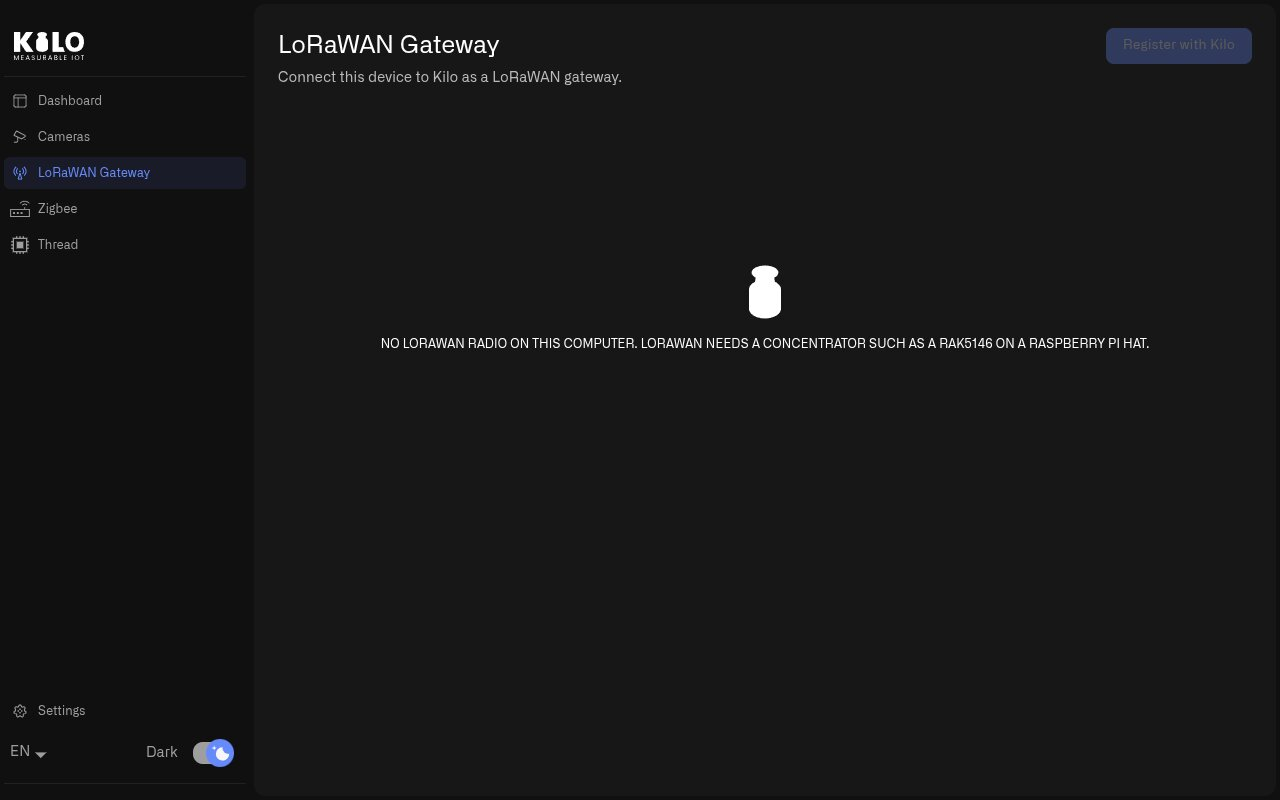
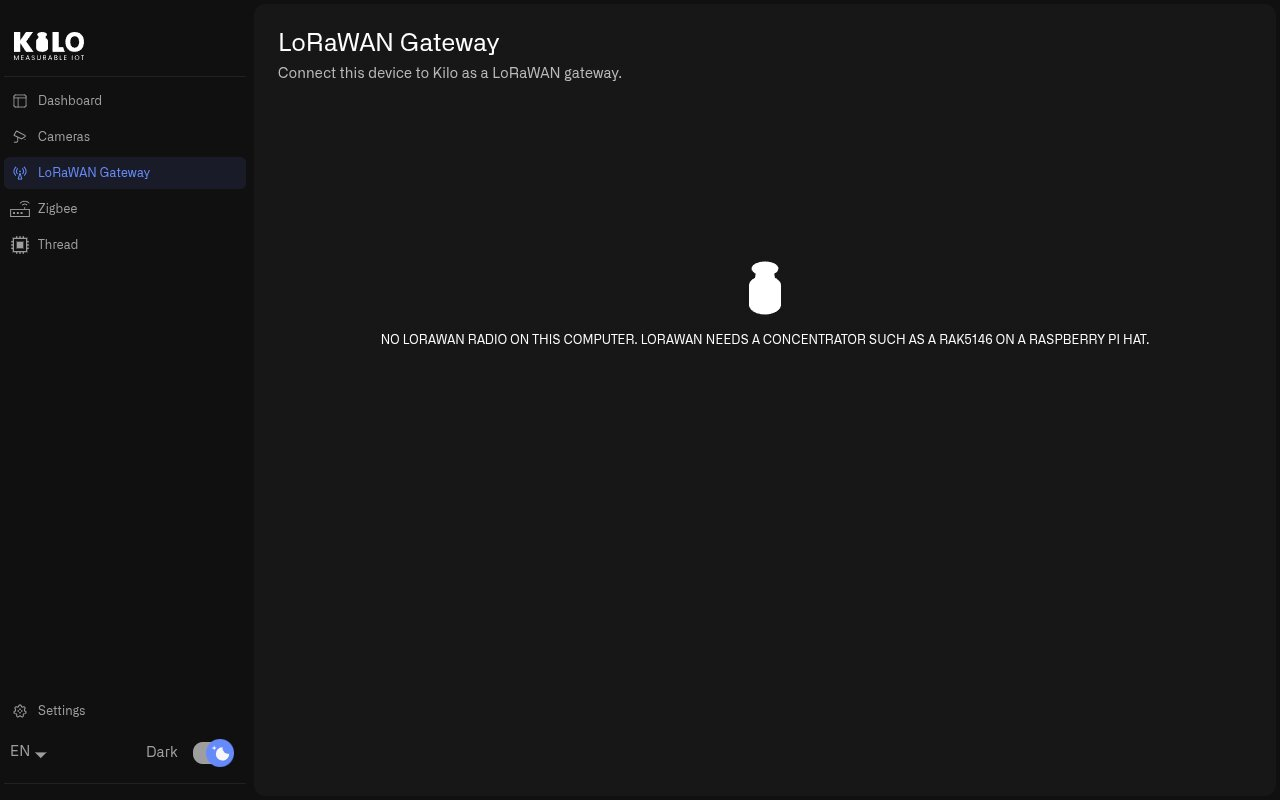
Kilo Hub: document the Raspberry Pi gateway flow that ships in 0.1.1
The LoRaWAN gateway page now follows the app: copy the gateway ID, register a
3rd Party Gateway in Kilo, download certs.zip, add the three files and the LNS
address in Kilo Hub. The Raspberry Pi page prepares the Pi with the setup
script on Ubuntu, and the Zigbee page describes choosing the Zigbee dongle when
more than one radio is plugged in. Both LoRaWAN screenshots are new.

diff --git a/kilo-iot-server/kilo-hub/raspberry-pi/lorawan-gateway.md b/kilo-iot-server/kilo-hub/raspberry-pi/lorawan-gateway.md
@@ -1,49 +1,55 @@
 ---
-description: Turn a Raspberry Pi with a RAK5146 concentrator into a LoRaWAN gateway on Kilo IoT, registered from Kilo Hub.
+description: Turn a Raspberry Pi with a RAK5146 concentrator into a LoRaWAN gateway on Kilo IoT, set up from Kilo Hub.
 ---
 
 # How Do I Build a Raspberry Pi LoRaWAN Gateway?
 
-A Raspberry Pi with a LoRaWAN concentrator card on a Pi HAT is a full LoRaWAN gateway. Kilo Hub reads the gateway's identity from the card, registers the gateway with Kilo, installs its security certificates and starts it, so the Pi joins Kilo's built-in LoRaWAN Network Server without anyone typing an EUI or a server address.
+A Raspberry Pi with a LoRaWAN concentrator card on a Pi HAT is a full LoRaWAN gateway. Kilo Hub reads the gateway ID from the card, sends you to Kilo to register it, and installs the certificates Kilo gives you, so the Pi joins Kilo's built-in LoRaWAN Network Server without anyone editing configuration files.
 
 ## Why build the gateway on the hub instead of buying one?
 
-A site that already needs a box for cameras or Zigbee gets LoRaWAN coverage from the same device for the cost of a concentrator card and an antenna. There is one device to power, mount, network and update instead of two, and the gateway's status sits on the same Dashboard as everything else at the site.
+A site that already needs a box for cameras or Zigbee gets LoRaWAN coverage from the same device for the cost of a concentrator card and an antenna. There is one device to power, mount, network and update instead of two.
 
 The gateway connects to Kilo over an encrypted **Basics Station** connection, the same secure protocol Kilo requires from every LoRaWAN gateway. See [LoRaWAN Gateways](../../gateways/lorawan-gateways/README.md) for how Kilo handles gateways in general.
 
 ## What do I need before I start?
 
-* A Raspberry Pi assembled as described in [Raspberry Pi](README.md#how-do-i-assemble-the-raspberry-pi-hub): Pi HAT with an mPCIe slot, RAK5146 concentrator card and a LoRa antenna for your region.
-* Kilo Hub installed on the Pi ([Download and Install](../download-and-install.md)).
+* A Raspberry Pi set up as described in [Raspberry Pi](README.md): assembled with the RAK5146 card and a LoRa antenna, prepared with the setup script, and running Kilo Hub.
+* A Kilo account with access to **Gateways**.
 * The LoRaWAN region of the installation site, for example **EU868** in Europe or **US915** in North America.
 * An internet connection on the Pi.
 
-## How do I register the Raspberry Pi as a gateway?
+## How do I set up the Raspberry Pi as a gateway?
 
-1. Open **Kilo Hub** and select **LoRaWAN Gateway** in the left menu.
-2. Kilo Hub checks the concentrator card. When the card answers, the **Gateway** table shows its **Gateway EUI** (read from the chip), the **Radio** model and the **Connection** (SPI). You never type the EUI.
-3. Check the **Gateway name**. It is filled in for you; change it to something your team recognizes, such as the site and building.
-4. Check the **Region**. Kilo Hub picks it from the computer's language and country settings; select the band used at the installation site from the list (EU868, US915, AU915, AS923, AS923-2, EU433, IN865, KR920, RU864, CN470, CN779, ISM2400).
-5. Select **Register with Kilo**. Kilo Hub works through four steps and shows each one:
-   * **Creating your gateway in Kilo…**
-   * **Downloading security certificates…**
-   * **Installing certificates…**
-   * **Starting the gateway…**
-6. When the screen shows **Your gateway is connected to Kilo.**, the gateway is online. It appears in Kilo under **Gateways** with the same name and EUI.
+1. Open **Kilo Hub** on the Pi and select **LoRaWAN Gateway** in the left menu. The page shows the **Gateway ID**, read from the concentrator chip, and the radio it found. Kilo calls this ID the Gateway EUI.
+2. Select **Copy** next to the Gateway ID, then **Open Kilo**. Kilo opens in the browser.
+3. In Kilo, open **Gateways**, select **Add gateway**, then **3rd Party Gateway**.
+4. Enter a name, choose the region the gateway is installed in, and paste the Gateway ID into **Gateway EUI**. Select **Next**.
+5. Copy the **LNS Address** and download **certs.zip**. Unzip it: it holds the trust certificate (`tc.trust`), the gateway certificate (`tc.crt`) and the private key (`tc.key`).
+6. Back in Kilo Hub, under **Add the files Kilo gave you**, select **Choose file** for **Trust certificate**, **Gateway certificate** and **Private key**, and paste the address into **LNS address**.
+7. Select **Save** and approve the password prompt. Kilo Hub checks that the three files belong together before it changes anything, installs them and starts the gateway.
+8. The page shows **This gateway is set up and running.** Select **Open Kilo** to watch the gateway come online under **Gateways**.
 
-If a step fails, Kilo Hub stops there and shows the reason, with the technical details underneath for support. Nothing is half-installed: the gateway only starts once all of its certificates are in place.
+<figure><img src="../../../.gitbook/assets/kilo-hub-lorawan-gateway-id.jpg" alt="Kilo Hub LoRaWAN Gateway page with the Gateway ID, the registration steps for Kilo and the fields for the certificate files"><figcaption><p>The Gateway ID, the steps to follow in Kilo and the fields for the files Kilo issues.</p></figcaption></figure>
 
-## Why is Register with Kilo disabled?
+Kilo Hub refuses files that do not belong together, such as certificates from two different downloads or a password-protected key, and says which file to choose again. If installing fails partway, it puts the previous files back, so the gateway is never left with a mixed set.
 
-On a computer, or on a Raspberry Pi without the card, the page explains what is missing and **Register with Kilo** stays disabled.
+## How do I know the gateway is connected?
+
+Kilo Hub reports what it can see on the Pi: whether the files are in place and the gateway software is running. Whether the gateway has connected is Kilo's to say. Open the gateway under **Gateways** in Kilo to see its status and traffic; see [LoRaWAN Gateway Monitoring](../../gateways/lorawan-gateways/lorawan-gateway-monitoring.md).
+
+When the gateway software has stopped, the page shows **This gateway is set up but not running.** with a **Start gateway** button.
+
+## Why does the page say there is no LoRaWAN radio?
+
+The LoRaWAN Gateway page needs the concentrator card and the Pi setup script. On a computer, or on a Raspberry Pi that was not prepared with the script, the page names the hardware it needs instead.
 
 <figure><img src="../../../.gitbook/assets/kilo-hub-lorawan-no-radio.jpg" alt="Kilo Hub LoRaWAN Gateway page saying a concentrator such as a RAK5146 on a Raspberry Pi HAT is needed"><figcaption><p>Without a concentrator card, the LoRaWAN Gateway page names the hardware it needs.</p></figcaption></figure>
 
-If the card is fitted but not found, power the Pi off, reseat the card in the HAT and the HAT on the GPIO header, and start again.
+If the card is fitted but not found, power the Pi off, reseat the card in the HAT and the HAT on the GPIO header, and run the setup script again: it checks that the card answers.
 
 ## Tips
 
 * Mount the antenna as high as practical and outside metal cabinets. Range depends far more on antenna placement than on the gateway itself.
-* Once the gateway is online, monitor it from Kilo: [LoRaWAN Gateway Monitoring](../../gateways/lorawan-gateways/lorawan-gateway-monitoring.md).
+* Keep `certs.zip` private. It identifies the gateway; if it leaks, regenerate the certificates in Kilo and add the new files in Kilo Hub.
 * Add your LoRaWAN sensors in Kilo as usual: [LoRaWAN Devices](../../devices/lorawan-devices.md). The Pi forwards their uplinks like any other gateway.

diff --git a/kilo-iot-server/kilo-hub/raspberry-pi/README.md b/kilo-iot-server/kilo-hub/raspberry-pi/README.md
@@ -17,7 +17,7 @@ A typical small site — a retail store, a branch office, a plant room — ends 
 | Single-board computer | Raspberry Pi 4 (4 GB or 8 GB) or Raspberry Pi 5 | Everything |
 | Storage | microSD card, 32 GB or larger | Everything |
 | Power | 5 V / 3 A USB-C power supply | Everything |
-| Operating system | Raspberry Pi OS (64-bit) | Everything |
+| Operating system | Ubuntu 24.04 or 26.04 (64-bit) | Everything |
 | Pi HAT with an mPCIe slot | A RAK Pi HAT for mPCIe concentrators | LoRaWAN gateway |
 | LoRaWAN concentrator | RAK5146 mPCIe card (Semtech SX1303) | LoRaWAN gateway |
 | Antennas | LoRa antenna for your region's band; GPS antenna optional | LoRaWAN gateway |
@@ -33,11 +33,29 @@ Zigbee and Thread need one radio each: a single dongle runs either Zigbee firmwa
 3. Connect the LoRa antenna to the concentrator's antenna connector **before** powering on. Transmitting without an antenna can damage the radio.
 4. Optionally connect the GPS antenna, for accurate gateway time and location.
 5. Plug the Zigbee dongle (and the Thread radio, if used) into USB ports. A short USB extension cable moves the radio away from the Pi's own interference.
-6. Write Raspberry Pi OS (64-bit) to the microSD card, start the Pi with a screen, keyboard and mouse, and connect it to the network — wired Ethernet is best for cameras.
+6. Write Ubuntu 24.04 or 26.04 (64-bit) to the microSD card with Raspberry Pi Imager, start the Pi and connect it to the network — wired Ethernet is best for cameras.
+
+## How do I prepare the Raspberry Pi for Kilo Hub?
+
+One script prepares the Pi: it turns on the interface the concentrator card uses, checks that the card answers, and installs Docker, the gateway software and the Zigbee and Thread radio support. Run it once, from a terminal on the Pi or over SSH:
+
+```sh
+git clone https://github.com/chirpdepin/raspberry-pi-iot-hub.git
+cd raspberry-pi-iot-hub
+sudo ./scripts/install-ubuntu.sh --with-desktop
+```
+
+`--with-desktop` adds the small graphical session Kilo Hub runs in on Ubuntu Server; leave it out on Ubuntu Desktop. If the card does not answer, the script stops and says so: check that the card is seated in the HAT and the HAT on the GPIO header. Reboot when the script asks.
 
 ## How do I install Kilo Hub on the Raspberry Pi?
 
-Download the `arm64` `.deb` package from the [Kilo Hub release page](https://github.com/chirpdepin/raspberry-pi-iot-hub/releases/latest) and install it as described in [Download and Install](../download-and-install.md#how-do-i-install-kilo-hub-on-linux-or-a-raspberry-pi). Start **Kilo Hub** from the applications menu. The Dashboard lists the Pi as the device and shows which capabilities found their hardware.
+Download `kilo-hub_<version>_arm64.deb` from the [Kilo Hub release page](https://github.com/chirpdepin/raspberry-pi-iot-hub/releases/latest) and install it:
+
+```sh
+sudo apt install ./kilo-hub_<version>_arm64.deb
+```
+
+After a reboot with a screen attached, the Pi signs in on its own and Kilo Hub starts. The Dashboard lists the Pi as the device and shows which capabilities found their hardware.
 
 ## What can the Raspberry Pi hub run?
 

diff --git a/kilo-iot-server/kilo-hub/download-and-install.md b/kilo-iot-server/kilo-hub/download-and-install.md
@@ -1,5 +1,5 @@
 ---
-description: Download the Kilo Hub installer for Windows, macOS, Linux or Raspberry Pi OS and get past the first-open prompt.
+description: Download the Kilo Hub installer for Windows, macOS, Linux or a Raspberry Pi and get past the first-open prompt.
 ---
 
 # How Do I Download and Install Kilo Hub?
@@ -20,7 +20,7 @@ Open the release page, scroll to **Assets**, and pick the file for the machine. 
 | Mac with Apple silicon (M1 and later) | `Kilo-Hub-<version>-arm64.dmg` |
 | Mac with an Intel processor | `Kilo-Hub-<version>.dmg` |
 | Ubuntu or Debian computer | `kilo-hub_<version>_amd64.deb` |
-| Raspberry Pi (Raspberry Pi OS 64-bit) | `kilo-hub_<version>_arm64.deb` |
+| Raspberry Pi (Ubuntu 64-bit, prepared as in [Raspberry Pi](raspberry-pi/README.md)) | `kilo-hub_<version>_arm64.deb` |
 | Any other Linux distribution | `Kilo-Hub-<version>.AppImage` (64-bit PC) or `Kilo-Hub-<version>-arm64.AppImage` (ARM) |
 
 Ignore the `.yml` and `.blockmap` files on the page; they are not installers.
@@ -44,13 +44,13 @@ On macOS 13 and later, Kilo Hub sets up its own Docker engine on the Mac (a down
 
 ## How do I install Kilo Hub on Linux or a Raspberry Pi?
 
-On Ubuntu, Debian and Raspberry Pi OS, use the `.deb` package. It installs everything Kilo Hub depends on:
+On Ubuntu and Debian, use the `.deb` package. It installs everything Kilo Hub depends on:
 
 ```sh
 sudo apt install ./kilo-hub_<version>_amd64.deb
 ```
 
-On a Raspberry Pi, use the `arm64` package instead. Then start **Kilo Hub** from the applications menu. The Raspberry Pi needs a screen, keyboard and mouse for this, or a remote desktop session.
+On a Raspberry Pi, run the [setup script](raspberry-pi/README.md#how-do-i-prepare-the-raspberry-pi-for-kilo-hub) first, then install the `arm64` package. Then start **Kilo Hub** from the applications menu.
 
 On other distributions, use the AppImage:
 

diff --git a/kilo-iot-server/kilo-hub/zigbee.md b/kilo-iot-server/kilo-hub/zigbee.md
@@ -19,7 +19,7 @@ Kilo Hub recognizes the common USB coordinator families and chooses the driver f
 * dresden elektronik ConBee and RaspBee
 * Nordic nRF52840 running ZBOSS
 
-Plug the dongle in before opening the **Zigbee** page. With a single coordinator plugged in, Kilo Hub takes it for Zigbee automatically and remembers it by its serial number. With two coordinator dongles plugged in, Kilo Hub does not guess which one runs Zigbee, so keep only the Zigbee coordinator connected while you set the network up. When no coordinator is found, the page says **No Zigbee coordinator found. Plug in a supported USB dongle and it will appear here.**
+Plug the dongle in before opening the **Zigbee** page. With a single coordinator plugged in, Kilo Hub uses it for Zigbee automatically. With two or more — a Zigbee dongle and a Thread radio, for example — Kilo Hub does not guess: the page lists them under **Radios needing a decision**. Select **Use for Zigbee** on the dongle that runs Zigbee, and Kilo Hub remembers it by its serial number, so it keeps its role after reboots and in any USB port. When no coordinator is found, the page says **No Zigbee coordinator found. Plug in a supported USB dongle and it will appear here.**
 
 ## How do I start the Zigbee network?
 

diff --git a/kilo-iot-server/kilo-hub/README.md b/kilo-iot-server/kilo-hub/README.md
@@ -21,7 +21,7 @@ Without Kilo Hub, each of those pieces is a separate installation: Docker, a con
 | **Cameras** | Finds cameras on the local network and starts one recorder ([Twin](../lens/installing-twin.md)) per camera, ready to pair with Kilo Lens | Raspberry Pi and computers |
 | **Zigbee** | Recognizes the USB coordinator, starts a Zigbee network with its own security key and opens a pairing window | Raspberry Pi and Linux computers |
 | **Thread** | Recognizes the separate Thread radio that Matter devices need, next to the Zigbee radio | Raspberry Pi and Linux computers |
-| **LoRaWAN gateway** | Reads the gateway EUI from the concentrator card and connects it to Kilo's built-in LoRaWAN Network Server | Raspberry Pi with a concentrator HAT |
+| **LoRaWAN gateway** | Reads the gateway ID from the concentrator card, takes the certificates Kilo issues for it and runs the gateway on Kilo's built-in LoRaWAN Network Server | Raspberry Pi with a concentrator HAT |
 
 Each capability has its own page in the left menu. A capability whose hardware is missing stays in the menu and says what it needs, so a missing radio is never mistaken for a fault.
 
